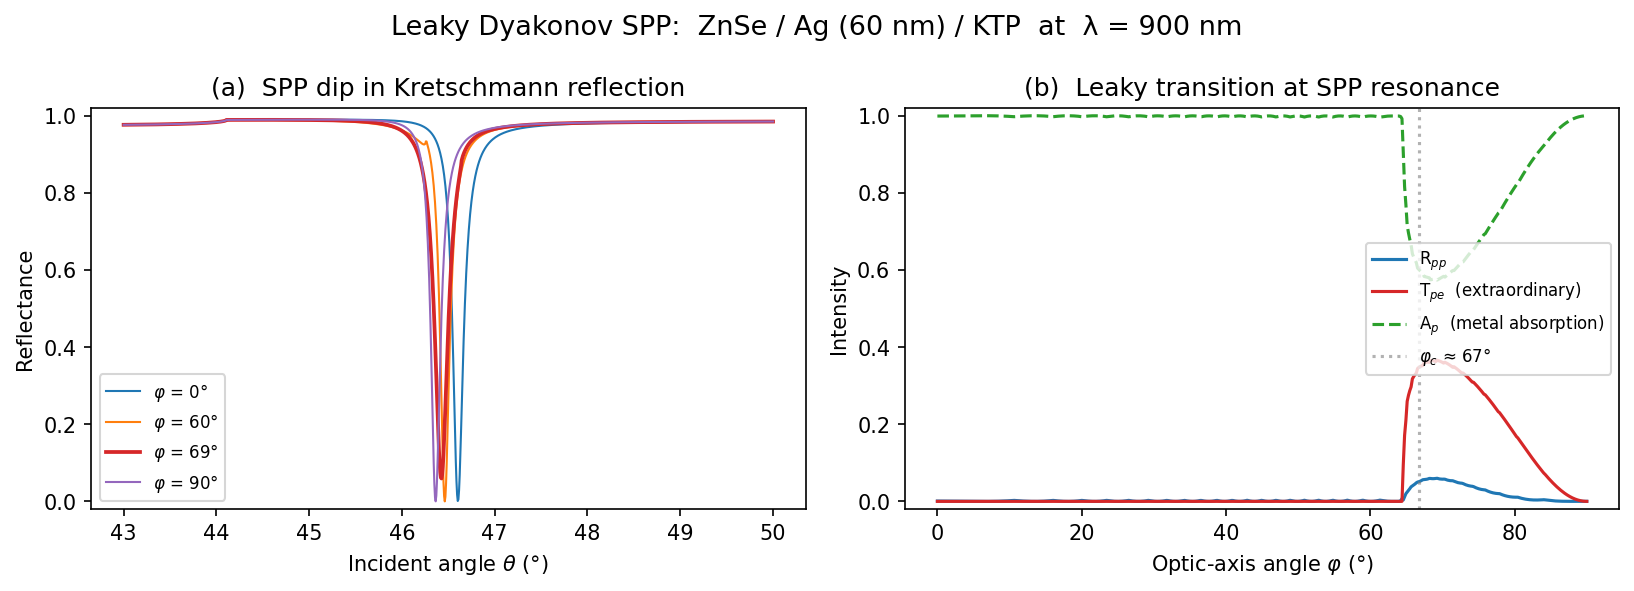
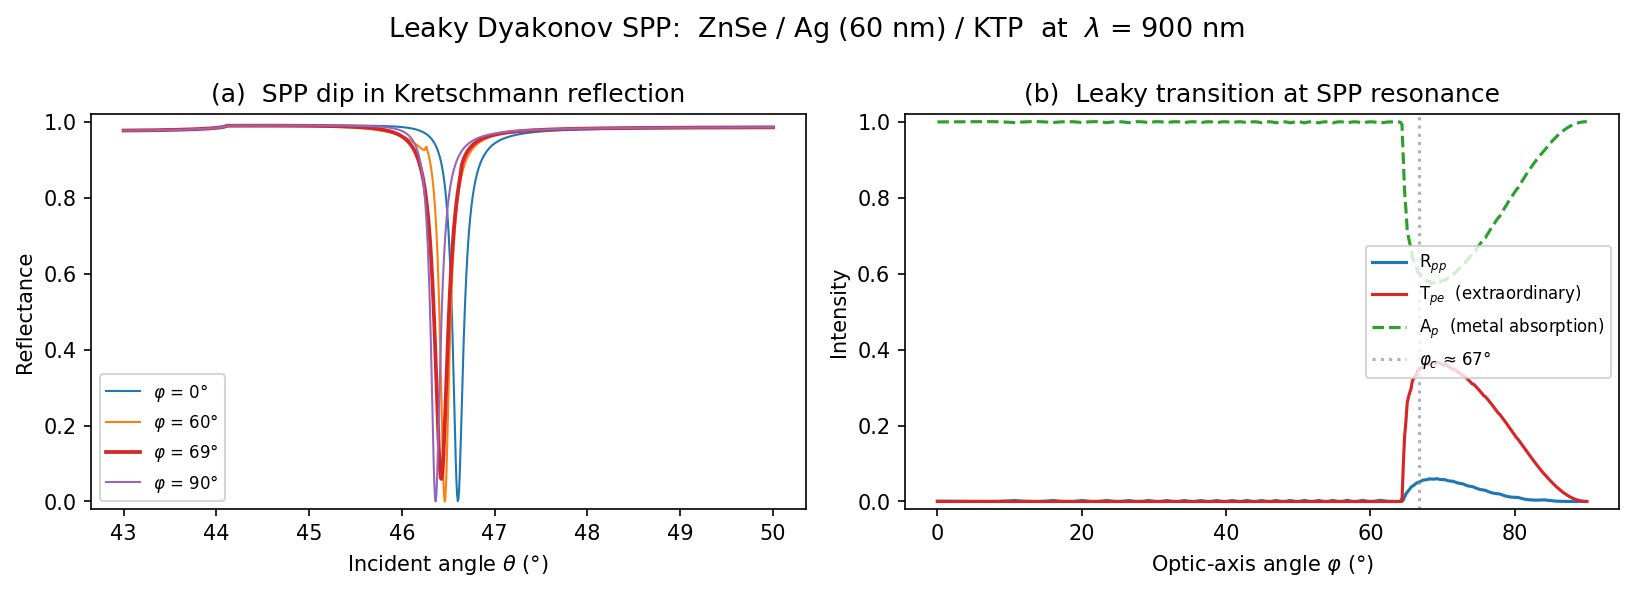
Enhance examples and images: update titles for clarity, improve figure titles, and replace example images for better representation

diff --git a/Examples/ExampleDSPP.py b/Examples/ExampleDSPP.py
@@ -48,6 +48,10 @@ def main():
     colors = ["#1f77b4", "#ff7f0e", "#d62728", "#9467bd"]
 
     fig, (ax1, ax2) = plt.subplots(1, 2, figsize=(11, 4))
+    fig.suptitle(
+        r"Leaky Dyakonov SPP:  ZnSe / Ag (60 nm) / KTP  at  $\lambda$ = 900 nm",
+        fontsize=13,
+    )
 
     for phi_deg, c in zip(phi_sel, colors):
         sr = make_tmm(phi_deg).Sweep("beta", betas)
@@ -83,10 +87,6 @@ def main():
     ax2.set_ylim(-0.02, 1.02)
     ax2.legend(fontsize=8, loc="center right")
 
-    fig.suptitle(
-        "Leaky Dyakonov SPP:  ZnSe / Ag (60 nm) / KTP  at  λ = 900 nm",
-        fontsize=13,
-    )
     fig.tight_layout()
     plt.show()
 

diff --git a/Examples/ExampleSPP.py b/Examples/ExampleSPP.py
@@ -63,7 +63,7 @@ def main():
     ax1.legend(loc="center left")
     ax1.set_title("(a)  Angular sweep")
     ax1r = ax1.twinx()
-    ax1r.plot(np.degrees(angles), sr["enh"], "--", color="red", label="enhancement")
+    ax1r.plot(np.degrees(angles), sr["enh"], "--", color="red", label="Enhancement")
     ax1r.set_ylabel("Enhancement")
     ax1r.legend(loc="center right")
 

diff --git a/Examples/ExampleTIR.py b/Examples/ExampleTIR.py
@@ -25,7 +25,7 @@ def main():
 
     # Plot
     fig, (ax1, ax2) = plt.subplots(1, 2, figsize=(11, 4))
-    fig.suptitle("Total Internal Reflection", fontsize=13)
+    fig.suptitle("Total internal reflection", fontsize=13)
 
     ax1.set_title("(a)  Reflection")
     ax1.plot(np.degrees(angles), sr["R11"], label=r"R$_{pp}$")
